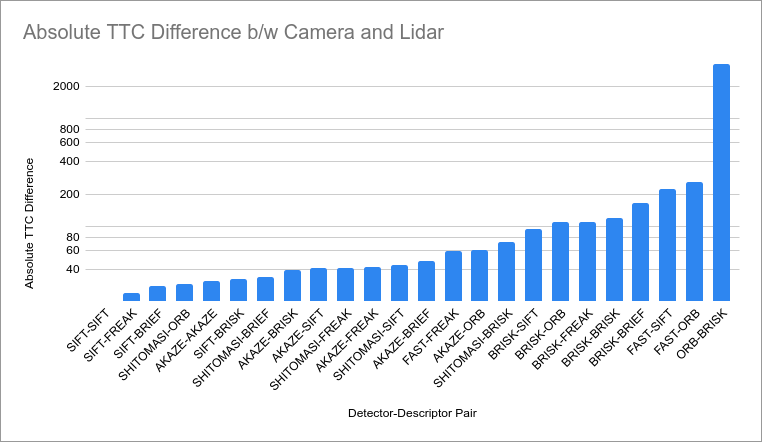
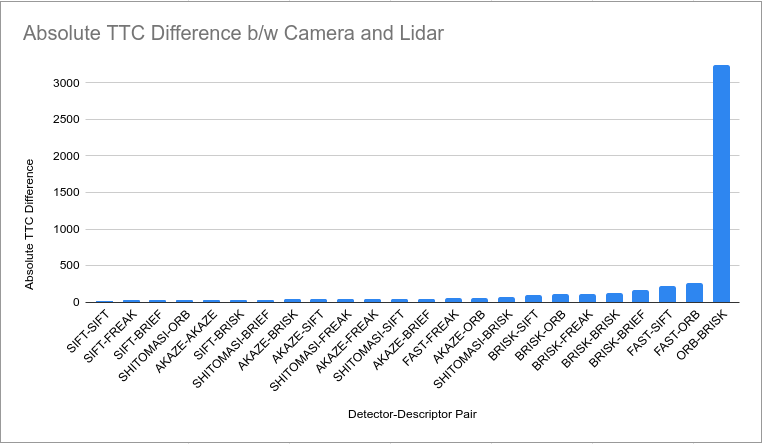
readme for 3d obj tracking

diff --git a/3d-object-tracking/src/FinalProject_Camera.cpp b/3d-object-tracking/src/FinalProject_Camera.cpp
@@ -298,7 +298,8 @@ int main(int argc, const char *argv[])
                     dif_file << abs(ttcCamera - ttcLidar) << " "; 
                     //// EOF STUDENT ASSIGNMENT
 
-                    if (bVis)
+
+                    if (true)
                     {
                         cv::Mat visImg = (dataBuffer.end() - 1)->cameraImg.clone();
                         showLidarImgOverlay(visImg, currBB->lidarPoints, P_rect_00, R_rect_00, RT, &visImg);

diff --git a/3d-object-tracking/README.md b/3d-object-tracking/README.md
@@ -1,32 +1,71 @@
-# SFND 3D Object Tracking
+# 3D Object Tracking
 
-Welcome to the final project of the camera course. By completing all the lessons, you now have a solid understanding of keypoint detectors, descriptors, and methods to match them between successive images. Also, you know how to detect objects in an image using the YOLO deep-learning framework. And finally, you know how to associate regions in a camera image with Lidar points in 3D space. Let's take a look at our program schematic to see what we already have accomplished and what's still missing.
+## Implementation Details
 
-<img src="images/course_code_structure.png" width="779" height="414" />
+### Computing Lidar TTC
+#### 1. Matching 2D Bounding Boxes
+Once we've detected bounding boxes over obstacles between one frame and the next, 
+we need to match each ostacle's bounding box from the previous frame to it's corresponding bounding box in the next frame. Through this, we track these obstacles through a series of frames. 
 
-In this final project, you will implement the missing parts in the schematic. To do this, you will complete four major tasks: 
-1. First, you will develop a way to match 3D objects over time by using keypoint correspondences. 
-2. Second, you will compute the TTC based on Lidar measurements. 
-3. You will then proceed to do the same using the camera, which requires to first associate keypoint matches to regions of interest and then to compute the TTC based on those matches. 
-4. And lastly, you will conduct various tests with the framework. Your goal is to identify the most suitable detector/descriptor combination for TTC estimation and also to search for problems that can lead to faulty measurements by the camera or Lidar sensor. In the last course of this Nanodegree, you will learn about the Kalman filter, which is a great way to combine the two independent TTC measurements into an improved version which is much more reliable than a single sensor alone can be. But before we think about such things, let us focus on your final project in the camera course. 
+Assume we have keypoints and their descriptions for every pair of sequential frames as well as their matches. For a certain pair of sequential frames, we iterate over every keypoint match, and log the corresponding bounding boxes in both frames. Then, for every one of the bounding boxes in the previous frame that contains a keypoint match, we select the bounding box that it was most often matched to as the corresponding box in the next frame. 
 
-## Dependencies for Running Locally
-* cmake >= 2.8
-  * All OSes: [click here for installation instructions](https://cmake.org/install/)
-* make >= 4.1 (Linux, Mac), 3.81 (Windows)
-  * Linux: make is installed by default on most Linux distros
-  * Mac: [install Xcode command line tools to get make](https://developer.apple.com/xcode/features/)
-  * Windows: [Click here for installation instructions](http://gnuwin32.sourceforge.net/packages/make.htm)
-* Git LFS
-  * Weight files are handled using [LFS](https://git-lfs.github.com/)
-  * Install Git LFS before cloning this Repo.
-* OpenCV >= 4.1
-  * This must be compiled from source using the `-D OPENCV_ENABLE_NONFREE=ON` cmake flag for testing the SIFT and SURF detectors.
-  * The OpenCV 4.1.0 source code can be found [here](https://github.com/opencv/opencv/tree/4.1.0)
-* gcc/g++ >= 5.4
-  * Linux: gcc / g++ is installed by default on most Linux distros
-  * Mac: same deal as make - [install Xcode command line tools](https://developer.apple.com/xcode/features/)
-  * Windows: recommend using [MinGW](http://www.mingw.org/)
+#### 2. Computing Lidar TTC
+Assume we have appropriately projected all Lidar points onto the camera image using the given extrinsic and intrinsic matrices. 
+
+For the matched bounding boxes in the current and previous frame, we capture the Lidar points that are contains within each. Conceptually, we should then calculate the minimum `x` point in both Lidar point clouds and compute the TTC using 
+$$ TTC = \frac{min_{curr}*\Delta t}{min_{prev} - min_{curr}}$$
+
+However, these Lidar point clouds can contain outliers. Since most `x` points for each bounding box lie on the bumper, we select $min_{frame}$ to be the median point on the $x$-axis. 
+
+### Computing Camera TTC
+#### 1. Associating Keypoints Matches within each Bounding Box
+In order to compute the TTC from Camera keypoints, we need to find the keypoint matches that fall within approximately same bounding box. For a given bounding box and the keypoints that lie within, we find the distance between each keypoint match. 
+We then compute the average distance between all keypoint matches. Then, we only keep
+the keypoint matches who's distance is within 1.5 of the mean distance. 
+
+#### 2. Computing Camera TTC
+Conceptually, computing the TTC is based on the size of the obstacle's bounding box in the previous and current frame. However, since that is not a reliabile measure, we take advantage of the keypoints instead. 
+
+For every pair of keypoints in the bounding box in the previous frame, compute the distance between them. Then, we find the distance between every corresponding pair of keypoints in the current frame using the keypoint matches. Finally, we compute the ratio of distances between every pair of keypoint matches. 
+
+The TTC is calculated using the median distance ratio: $$ TTC = \frac{-\Delta t}{1 - ratio}$$
+
+### Performance Evaluation
+#### Some Examples where Lidar TTC seems off
+
+##### Example 1: The Lidar TTC increases
+![](images/results/lidar_0.png)
+![](images/results/lidar_1.png)
+
+and it's associated Lidar BEV:
+![](images/results/lidar_3d_0.png)
+![](images/results/lidar_3d_1.png)
+
+Although the minimum $x$ point is reasonable and would likely provide a better estimate of the TTC, the median $x$ points that we selected for each sequence must've made it such that it seems like we're going much slower in the second sequence than the first. 
+
+##### Example 2: The Lidar TTC falls drastically
+![](images/results/lidar_2.png)
+![](images/results/lidar_3.png)
+
+Similar to the last example, this error must be due to our manual selection of median points, and our selection must've made it such that it seems like we're going much _faster_ in the second sequence than the first. 
+
+#### Descriptor/Detector TTC Performance
+**The `eval_results` folder contains 3 files:** A text file containing the Lidar TTC for each pair of sequential frames (`lid.txt`), and 2 CSVs containing the Camera TTC (`cam.csv`) and absolute difference between Lidar and Camera TTC for the same sequence of pairs (`dif.csv`).
+
+![](images/results/log_scale_ttc_diff.png)
+
+Based on the total absolute TTC difference from all sequences, the SIFT-based detection methods performed the best. 
+
+##### Some Examples where Camera TTC is off
+Here are a couple examples where the Camera TTC is wildly off: 
+
+**1. Using FAST detector and ORB descriptor**
+![](images/results/cam_0.png)
+
+**2. Using ORB detector and BRISK descriptor**
+![](images/results/cam_1.png)
+
+These are likely due to very poor matches between keypoints and thus the distance ratios between keypoint matches were too large. 
 
 ## Basic Build Instructions
 
